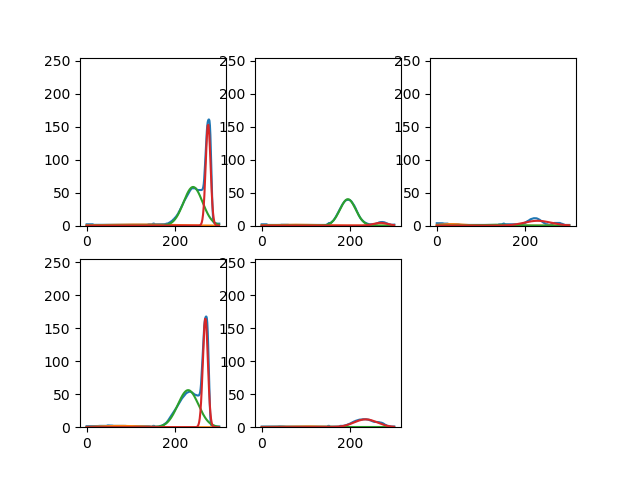
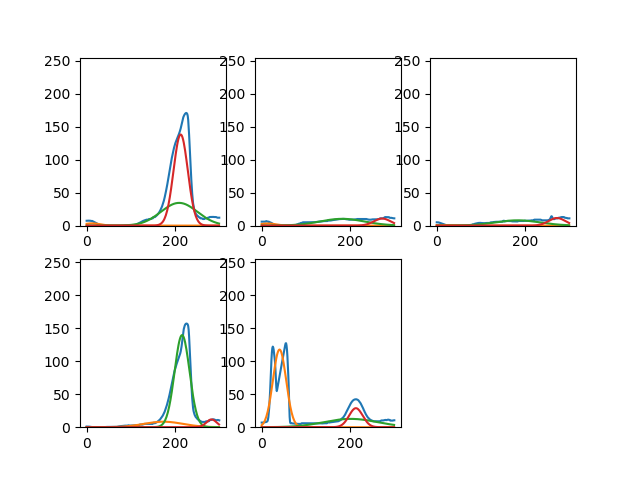
first_change

diff --git a/main.py b/main.py
@@ -526,7 +526,8 @@ if __name__ == "__main__":
     print(ans[1])"""
 
     # testing folder_to_data() method 
-    folder_to_data("test_pic", "test_", cut_n=6)
-
+    #folder_to_data("test_pic", "test_", cut_n=6)
+    ans = BGMreport("test_pic/WeChat Image_20200821174540.jpg", 1, cut_n=6)
+    print(ans)
 
     #classify_folder("test_pic","train1",gt=gt,testflag=1,cut_n=6,numsort=0)
